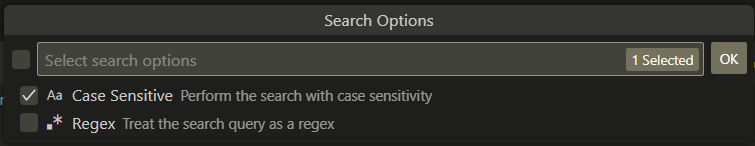
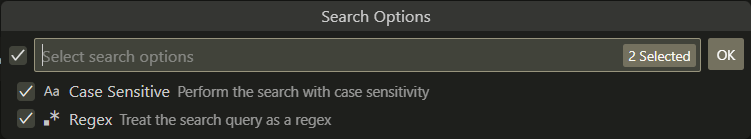
docs: re-do 3.2 release notes

diff --git a/packages/zowe-explorer/src/webviews/src/release-notes/resources/release-notes-3.2.md b/packages/zowe-explorer/src/webviews/src/release-notes/resources/release-notes-3.2.md
@@ -2,82 +2,58 @@
 
 ### Job spool pagination
 
-When you open a job spool file, the spool should load almost instantly and there will be a `Load more…` button inside the file at the bottom to load more lines of spool. When you click the button, another bunch of lines will load in.
+Large job spool files now load faster by displaying a `Load more…` button at the bottom to fetch additional lines as needed. For active jobs, use this button to retrieve new output without refreshing the jobs tree. It is recommended to use the default keybinding `Ctrl + L` to quickly load more lines. The number of lines per page and the toggle for pagination can be configured in the settings under `Zowe > Jobs > Paginate`. The default is 100 lines per page.
 
 ![3.2-job-spool-1](./images/3.2-job-spool-1.png)
 
-If the job is actively running and printing new lines to spool, you can click the `Load more…` button to fetch more spool into the file, rather than clicking the refresh button.
-
-It is recommended to use the keybinding `Ctrl + L` to quickly load new lines.
-
-In the Zowe settings, you can either change the number of lines per pagination, or disable the pagination feature entirely. I set mine to 1000 lines:
-
-![3.2-job-spool-2](./images/3.2-job-spool-2.png)
-
 ### Data set tree pagination
 
-When you open a PDS with more than 100 members, you will see `<- Previous page` and `Next page ->` buttons that allow you to page through the PDS 100 members at a time.
-
-This is a server sided operation meaning that opening massive data sets will no longer take a while as it will only fetch 100 members at a time (the example below has the setting on 10 members for demo purposes):
+The data sets tree and any data sets with many members will now display `<- Previous page` and `-> Next page` navigation buttons to page through members. Only a subset of members is loaded at a time, allowing for large filters and data sets to load members faster. The number of members per page is configurable in the settings under `Zowe > Ds > Paginate`. The default is 100 members per page.
 
 ![3.2-ds-pagination-1](./images/3.2-ds-pagination-1.png)
 
-You can change the number of members to list per page, or set it to 0 to disable it:
-
-![3.2-ds-pagination-2](./images/3.2-ds-pagination-2.png)
-
-Also note that since the pagination is server sided, the sort order you have set is applied **after** the pagination, meaning that only each page is sorted, while the whole PDS is fetched in ascending, alphabetical order regardless of your sort setting.
+**Note:** Sorting is only applied within each page, while the overall member list is fetched by alphabetical, ascending order.
 
 ### Default sort order
 
-You can now change the default sort order of every data set or job. For example, if you always want to open a PDS to see the latest members you have been editing, you can set the default sort order to be by descending, date modified. This means you don’t have to change it every single time you open the PDS.
-
-Go to the settings and find this:
+The default sort order of every data set or job can now be changed. For example, to always open a data set to see the most recently edited members, set the default sort order to be by descending, date modified. The following settings are available:
 
 ![3.2-default-sort-1](./images/3.2-default-sort-1.png)
-
-Or this one for jobs:
-
 ![3.2-default-sort-2](./images/3.2-default-sort-2.png)
 
-Click on `Edit in settings.json` and it will open the file with a place to put in your values. Simple specify method and direction you want - VS Code will provide you with all possible values as you type. For example these are my settings:
+Click on `Edit in settings.json` and it will open the file with a place to enter in desired values. Specify the method and direction - IntelliSense will provide all possible values. For example:
 
-![3.2-default-sort-3](./images/3.2-default-sort-3.png)
+```json
+"zowe.ds.default.sort": {
+  "method": "LastModified",
+  "direction": "Descending"
+},
+"zowe.jobs.default.sort": {
+  "method": "DateCompleted",
+  "direction": "Descending"
+}
+```
 
 ### Case sensitive & regex searching
 
-When you search data sets, you can now select if you want the search to be case sensitive and/or using regex. To change the setting, simply open the `Search PDS members` quick pick, then select the option at the bottom under your history:
+Data set searches now support case sensitivity and regular expressions. Enable these options in the `Search PDS members` quick pick dialog.
 
 ![3.2-search-1](./images/3.2-search-1.png)
-
-Then check the boxes for the options you want to enable:
-
 ![3.2-search-2](./images/3.2-search-2.png)
-
-And click OK. Then it will go back to the previous page and allow you to submit your search query.
 
 ### Advanced data set copy & paste
 
-You can now copy and paste data sets within and between different LPARs.
+Data sets and members can now be copied and pasted within or across LPARs. Drag and drop is also supported for moving items between locations. Permission and attribute edge cases are handled with clear error messages.
 
-You can also now drag and drop data sets and members between each other and different LPARs, which will move that item to the dropped location.
+### Improved USS filtering
 
-Edge cases surrounding permissions, data set attributes and such are handled with appropriate error messages so you know what’s going wrong if something does.
-
-### Better USS filtering
-
-You can now filter the USS tree on a selected directory.
-
-Right click on the directory you want to filter on and select `Search by directory`:
+The USS tree can now be filtered by any selected directory. Right-click a directory and select `Search by directory` to filter. Use the `Go Up One Directory` button to quickly adjust the filter to the parent directory.
 
 ![3.2-uss-filter-1](./images/3.2-uss-filter-1.png)
-
-You can also "cd up" into the parent directory on your selected path filter to save a bit of manual time. Simply click the `Go Up One Directory` up arrow on the filter bar:
-
 ![3.2-uss-filter-2](./images/3.2-uss-filter-2.png)
 
 ### Profile info hover
 
-You can now view details about a data set, USS or jobs profile by simply hovering over it.
+Hovering over a data set, USS, or jobs profile now displays detailed connection information.
 
 ![3.2-hover-1](./images/3.2-hover-1.png)
